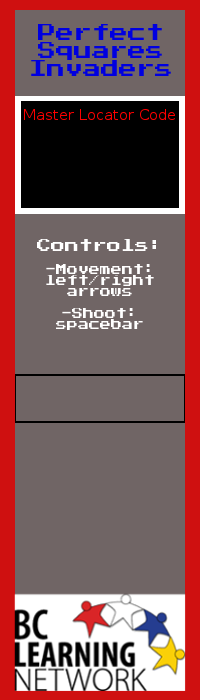
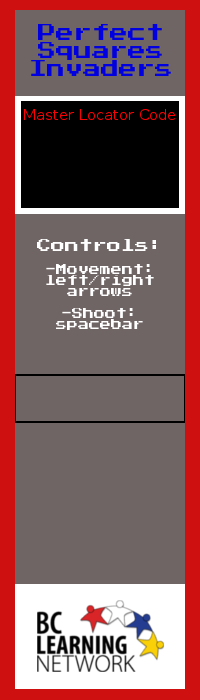
fixed bug where spacebar would toggle mute, also modified square root so that bar covers top

Changed region(s): [[0.06, 0.81, 0.93, 0.99]]

diff --git a/invaders.js b/invaders.js
@@ -86,6 +86,7 @@ var enemy4;
 var missileImage;
 var gameOverImage;
 var gameStartImage;
+var squareRootImage;
 
 // animations
 var explosionAnimation;
@@ -216,6 +217,10 @@ function setupManifest() {
 	{
 		src: "sounds/missile.wav",
 		id: "missileSound"
+	},
+	{
+		src: "images/square_root.png",
+		id: "squareroot"
 	}
 	];
 }
@@ -253,7 +258,9 @@ function handleFileLoad(event) {
    		gameOverImage = new createjs.Bitmap(event.result);
    	} else if (event.item.id == "gamestart") {
    		gameStartImage = new createjs.Bitmap(event.result);
-   	} 
+   	} else if (event.item.id == "squareroot") {
+   		squareRootImage = new createjs.Bitmap(event.result);
+   	}
 }
 
 function loadError(evt) {
@@ -620,7 +627,7 @@ function malfunction() {
 * Plays a sound if the game is not muted.
 */
 function playSound(id) {
-	if (!mute) {
+	if (mute == false) {
 		createjs.Sound.play(id);
 	}
 }
@@ -659,8 +666,23 @@ function updateScore(amount) {
  * Updates the question text and maintains center position in sidebar.
  */
 function updateQuestionText(text) {
+
+	stage.removeChild(squareRootImage);
+
+	isSquareRoot = false;
+	if (text.includes(SQUARE_ROOT)) { // use the square root image instead so that the bar is above the number
+		text = text.replace(SQUARE_ROOT, "");
+		isSquareRoot = true;
+	}
+
 	questionText.text = text;
 	questionText.x = sidebarImage.getBounds().width/2 - questionText.getMeasuredWidth()/2;
+
+	if (isSquareRoot) { // display the image centered over text
+		squareRootImage.x = questionText.x - 25;
+		squareRootImage.y = questionText.y - 5;
+		stage.addChild(squareRootImage);
+	}
 }
 
 /*
@@ -730,16 +752,17 @@ function updateEnemies() {
  * Toggles mute variable. Called from HTML button.
  */
 function toggleMute() {
-	mute = !mute;
 
-	if (mute) {
+	if (mute == true) {
+		mute = false;
+	} else {
+		mute = true;
+	}
+
+	if (mute == true) {
 		document.getElementById("mute").firstElementChild.setAttribute("src", "images/mute.png");
-		ambianceSound.stop();
-		ambianceSound = null;
 	} else {
 		document.getElementById("mute").firstElementChild.setAttribute("src", "images/unmute.png");
-		ambianceSound = createjs.Sound.play("ambiance", {loop:-1});
-		ambianceSound.volume = 0.8;
 	}
 }
 
@@ -764,7 +787,7 @@ function keyDownHandler(e) {
 	switch (e.keyCode) {
 		case KEYCODE_LEFT: leftArrow = true; break;
 		case KEYCODE_RIGHT: rightArrow = true; break;
-		case KEYCODE_SPACE: shoot(); break;
+		case KEYCODE_SPACE: e.preventDefault(); shoot(); break;
 	}
 }
 
@@ -775,7 +798,7 @@ function keyUpHandler(e) {
 	switch (e.keyCode) {
 		case KEYCODE_LEFT: leftArrow = false; break;
 		case KEYCODE_RIGHT: rightArrow = false; break;
-		case KEYCODE_SPACE: /* do nothing */ break;
+		case KEYCODE_SPACE: e.preventDefault(); break;
 	}
 }
 
